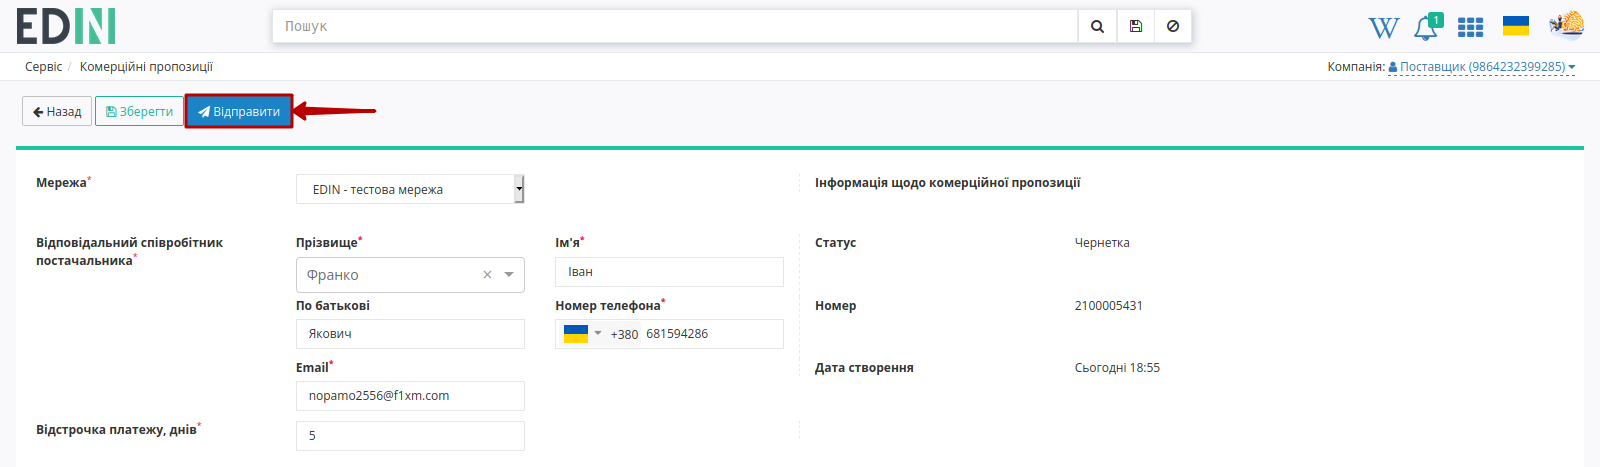
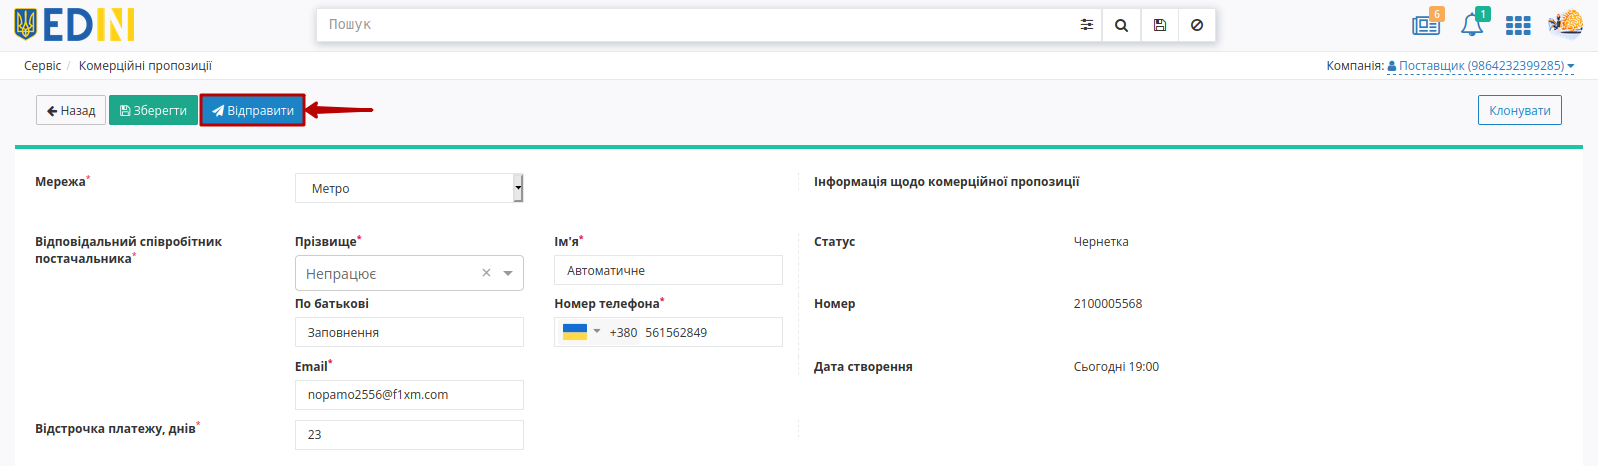
new_buttons

diff --git a/docs/Commercial_offers/Instructions/Commercial_offers_postachalnik.rst b/docs/Commercial_offers/Instructions/Commercial_offers_postachalnik.rst
@@ -106,6 +106,11 @@
    .. image:: pics_Commercial_offers/Commercial_offers_029.gif
       :align: center
 
+   Після того, як документ було збережено (**у всіх статусах**), комерційну пропозицію можливо **"Клонувати"** - створення нової комерційної пропозиції, що заповнюється даними і товарними позиціями з поточної комерційної пропозиції:
+
+   .. image:: pics_Commercial_offers/Commercial_offers_69.png
+      :align: center
+
 Далі необхідно заповнити всі обов'язкові поля (позначні червоною зірочкою :red:`*`):
 
 * вказати контакти **Постачальника** (додати новий контакт чи обрати за прізвищем вказаний раніше контакт):
@@ -149,6 +154,11 @@
 Відправлена комерційна пропозиція змінює свій статус на **"На узгодженні"**:
 
 .. image:: pics_Commercial_offers/Commercial_offers_037.png
+   :align: center
+
+Після того, як документ було відправлено (в статусі :blue:`"На узгодженні"` / :green:`"Прийнято"` / :red:`"Відхилено"`), комерційну пропозицію для зручності можливо **"Завантажити в XLS"**:
+
+.. image:: pics_Commercial_offers/Commercial_offers_70.png
    :align: center
 
 .. hint::
